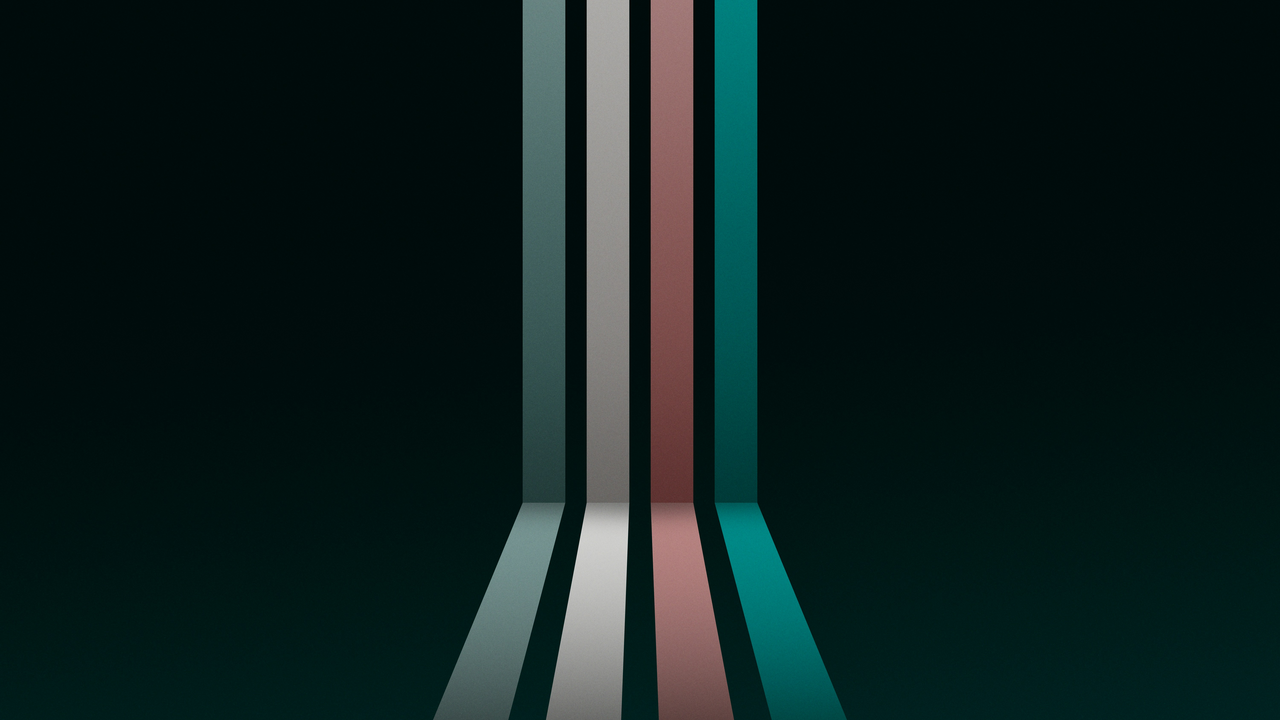
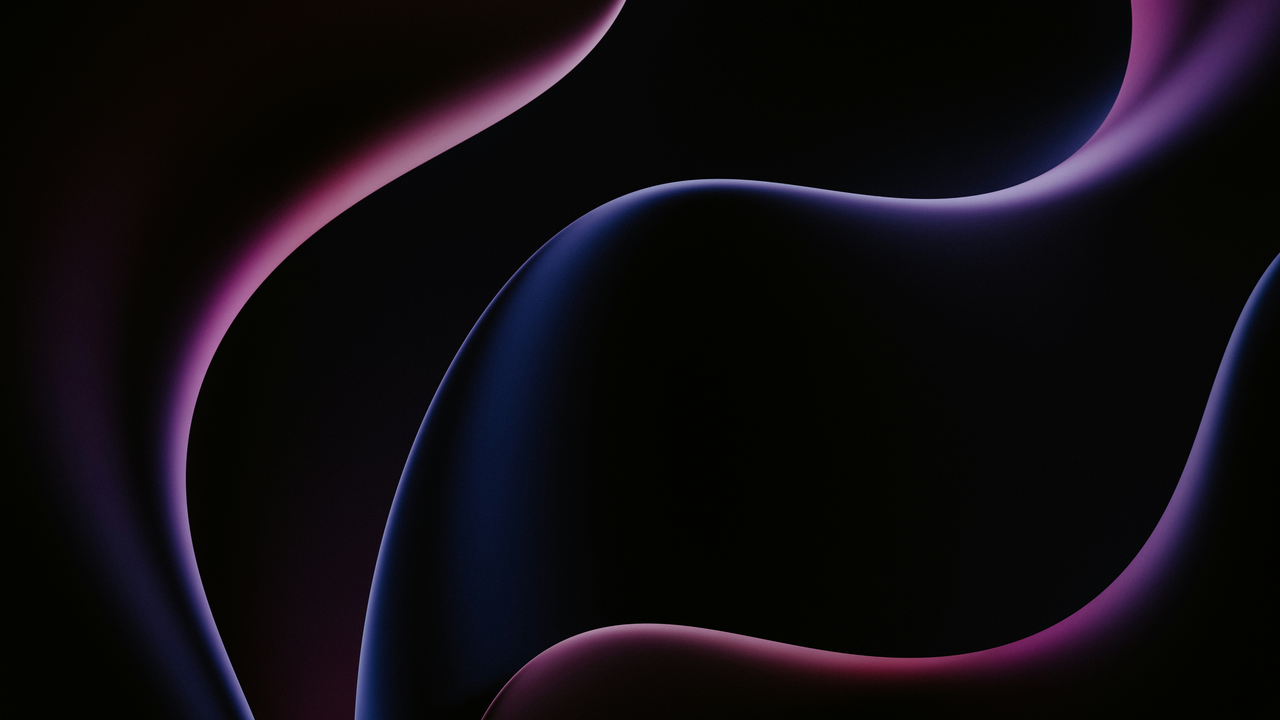
Make Pawel Czerwinski's photo the default wallpaper
Martin Martz's photo stays as the second wallpaper. Preview, README and
LICENSE credits updated.

diff --git a/README.md b/README.md
@@ -13,7 +13,7 @@ A dark macOS look for [Omarchy](https://omarchy.org), following Apple's Liquid G
 - **Spotlight-style launcher and menus**: the selected row in blue, with no dimming behind.
 - **Motion**: windows and menus pop in with a slight spring, and workspaces slide sideways like macOS Spaces.
 - **Ghostty**: a frosted background with solid text.
-- **Wallpaper**: a full-resolution (6000×4000) photo by Martin Martz.
+- **Wallpapers**: two full-resolution (6000×4000) photos, by Pawel Czerwinski (the default) and Martin Martz. Cycle between them with `omarchy theme bg next`.
 
 Optional extras:
 
@@ -68,10 +68,10 @@ Bar, menu and popup colors and transparency are in `shell.toml` in the same fold
 
 ## Credits
 
-- Wallpaper: [photo by Martin Martz on Unsplash](https://unsplash.com/photos/DI0lpZocxl4), used under the [Unsplash License](https://unsplash.com/license).
+- Wallpapers: [photo by Pawel Czerwinski on Unsplash](https://unsplash.com/photos/ZkzobNDayXo) and [photo by Martin Martz on Unsplash](https://unsplash.com/photos/DI0lpZocxl4), used under the [Unsplash License](https://unsplash.com/license).
 - The volume capsule is a restyled copy of Omarchy's own on-screen display ([Omarchy](https://github.com/basecamp/omarchy), MIT License).
 - Colors follow Apple's published dark-mode system colors. This project isn't affiliated with or endorsed by Apple. macOS and Liquid Glass are trademarks of Apple Inc.
 
 ## License
 
-MIT, except the wallpaper, which follows the Unsplash License.
+MIT, except the wallpapers, which follow the Unsplash License.
